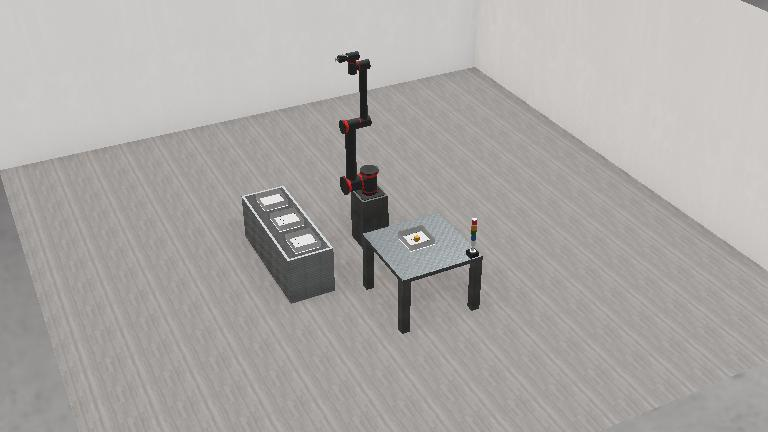
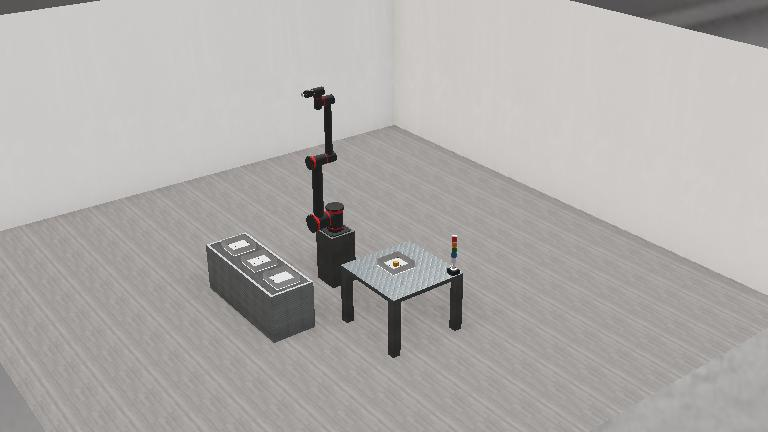
added camera

Changed region(s): [[0.0, 0.1204, 1.0, 0.8426], [0.75, 0.0, 1.0, 0.1204], [0.0, 0.0, 0.125, 0.0301]]

diff --git a/simulation_pkg/launch/simulation.launch.py b/simulation_pkg/launch/simulation.launch.py
@@ -250,6 +250,23 @@ def generate_launch_description():
         respawn=True
     )
 
+    camera_description_path = os.path.join(get_package_share_directory('webots'), 'resource', 'urdf', 'camera.urdf')
+    table_camera_driver = WebotsController(
+        robot_name='Table camera',
+        parameters=[{'robot_description': camera_description_path},
+                    {'use_sim_time': True}],
+        respawn=True
+    )
+
+    conv_camera_driver = WebotsController(
+        robot_name='Conveyor camera',
+        parameters=[{'robot_description': camera_description_path},
+                    {'use_sim_time': True}],
+        respawn=True
+    )
+
+
+
     reset_handler = launch.actions.RegisterEventHandler(
         event_handler=event_handlers.OnProcessExit(
             target_action=webots._supervisor,
@@ -272,6 +289,8 @@ def generate_launch_description():
         rviz_node,
         angle_control_node,
         lamp_driver,
+        table_camera_driver,
+        conv_camera_driver,
         reset_handler,
         launch.actions.RegisterEventHandler(
             event_handler=event_handlers.OnProcessExit(

diff --git a/README.md b/README.md
@@ -19,7 +19,6 @@ sudo apt install webots
 После окончания установки добавьте в bashrc команду для экспорта переменной окружения:
 ```
 echo 'export WEBOTS_HOME=/usr/local/webots' >> ~/.bashrc
-
 ```
 
 # Установка
